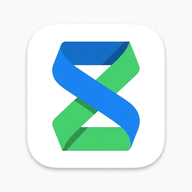
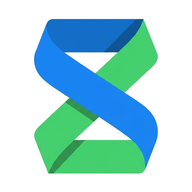
Replace StudyLink brand images and refresh PWA cache

diff --git a/index.html b/index.html
@@ -9,22 +9,22 @@
 <meta name="apple-mobile-web-app-status-bar-style" content="default">
 <meta name="apple-mobile-web-app-title" content="StudyLink">
 <meta name="description" content="StudyLink — Connect, Learn, Grow.">
-<link rel="manifest" href="manifest.webmanifest?v=studylink-pwa-215">
-<link rel="icon" type="image/png" sizes="32x32" href="icons/favicon-32.png?v=studylink-pwa-215">
-<link rel="icon" type="image/png" sizes="192x192" href="icons/studylink-192.png?v=studylink-pwa-215">
-<link rel="apple-touch-icon" href="icons/studylink-192.png?v=studylink-pwa-215">
+<link rel="manifest" href="manifest.webmanifest?v=studylink-pwa-216">
+<link rel="icon" type="image/png" sizes="32x32" href="icons/favicon-32.png?v=studylink-pwa-216">
+<link rel="icon" type="image/png" sizes="192x192" href="icons/studylink-192.png?v=studylink-pwa-216">
+<link rel="apple-touch-icon" href="icons/studylink-192.png?v=studylink-pwa-216">
 <title>StudyLink Pro</title>
 <script src="https://cdnjs.cloudflare.com/ajax/libs/firebase/9.23.0/firebase-app-compat.min.js"></script>
 <script src="https://cdnjs.cloudflare.com/ajax/libs/firebase/9.23.0/firebase-auth-compat.min.js"></script>
 <script src="https://cdnjs.cloudflare.com/ajax/libs/firebase/9.23.0/firebase-firestore-compat.min.js"></script>
 <script src="https://cdnjs.cloudflare.com/ajax/libs/firebase/9.23.0/firebase-storage-compat.min.js"></script>
-<link rel="stylesheet" href="css/styles.css?v=studylink-pwa-215">
+<link rel="stylesheet" href="css/styles.css?v=studylink-pwa-216">
 </head>
 <body>
 <div class="ov" id="ov"><div class="spin"></div></div>
 <div id="toast" style="display:none;"></div>
 <div id="installBanner" role="status" aria-live="polite">
-  <img src="icons/studylink-192.png?v=studylink-pwa-215" alt="StudyLink" width="42" height="42">
+  <img src="icons/studylink-192.png?v=studylink-pwa-216" alt="StudyLink" width="42" height="42">
   <div class="install-copy"><strong data-i18n="install_title">Installer l’application StudyLink</strong><span data-i18n="install_hint">Installez-la comme une vraie application, pas comme un simple raccourci.</span></div>
   <button type="button" id="installBtn" data-i18n="install_button">Installer l’app</button>
   <button type="button" id="installDismiss" data-i18n-aria="install_close" aria-label="Fermer">×</button>
@@ -84,7 +84,7 @@
 <!-- HEADER -->
 <div class="hdr">
   <div style="display:flex;align-items:center;gap:10px;">
-    <div class="hdr-brand"><span class="hdr-logo-badge"><img class="hdr-logo" src="icons/studylink-header-logo.png?v=studylink-pwa-215" alt="StudyLink"></span><span class="hdr-wordmark" style="font-size:26px;font-weight:bold;color:#fff;letter-spacing:.1px;line-height:1;">StudyLink</span></div>
+    <div class="hdr-brand"><span class="hdr-logo-badge"><img class="hdr-logo" src="icons/studylink-header-logo.png?v=studylink-pwa-216" alt="StudyLink"></span><span class="hdr-wordmark" style="font-size:26px;font-weight:bold;color:#fff;letter-spacing:.1px;line-height:1;">StudyLink</span></div>
   </div>
   <div style="display:flex;flex-direction:column;align-items:flex-end;gap:3px;">
     <span id="topN" style="font-size:11px;color:rgba(255,255,255,.75);max-width:160px;overflow:hidden;text-overflow:ellipsis;white-space:nowrap;"></span>
@@ -827,5 +827,5 @@
   </div>
 </div>
 
-<script defer src="js/app-v26.js?v=studylink-pwa-215"></script></body>
+<script defer src="js/app-v26.js?v=studylink-pwa-216"></script></body>
 </html>
